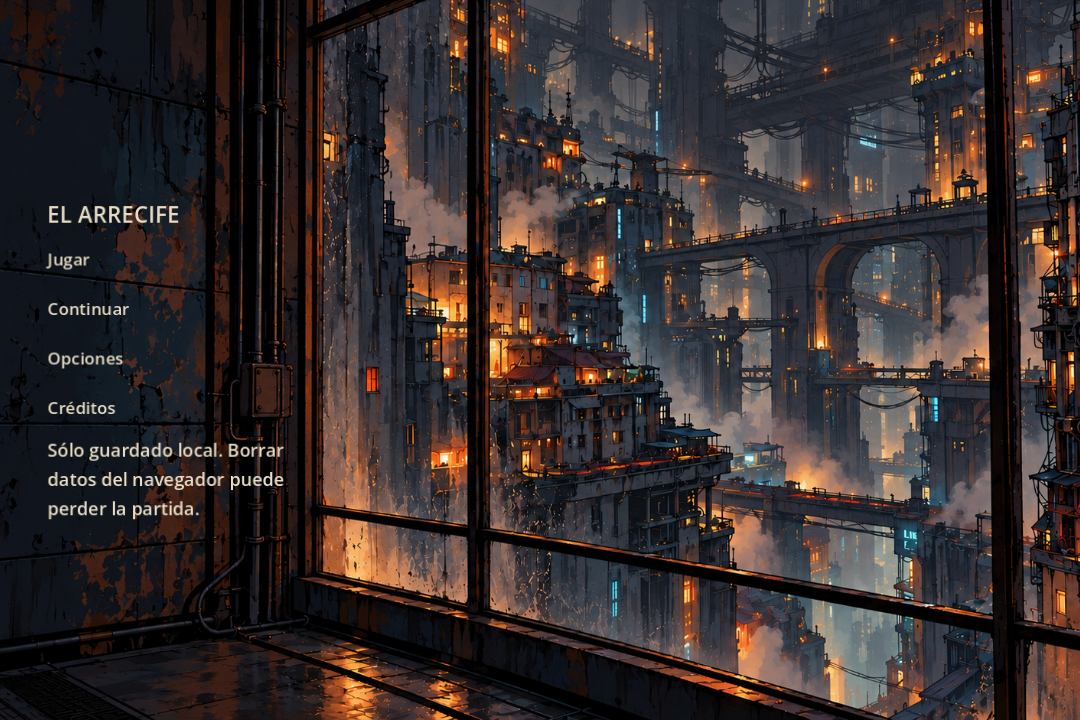
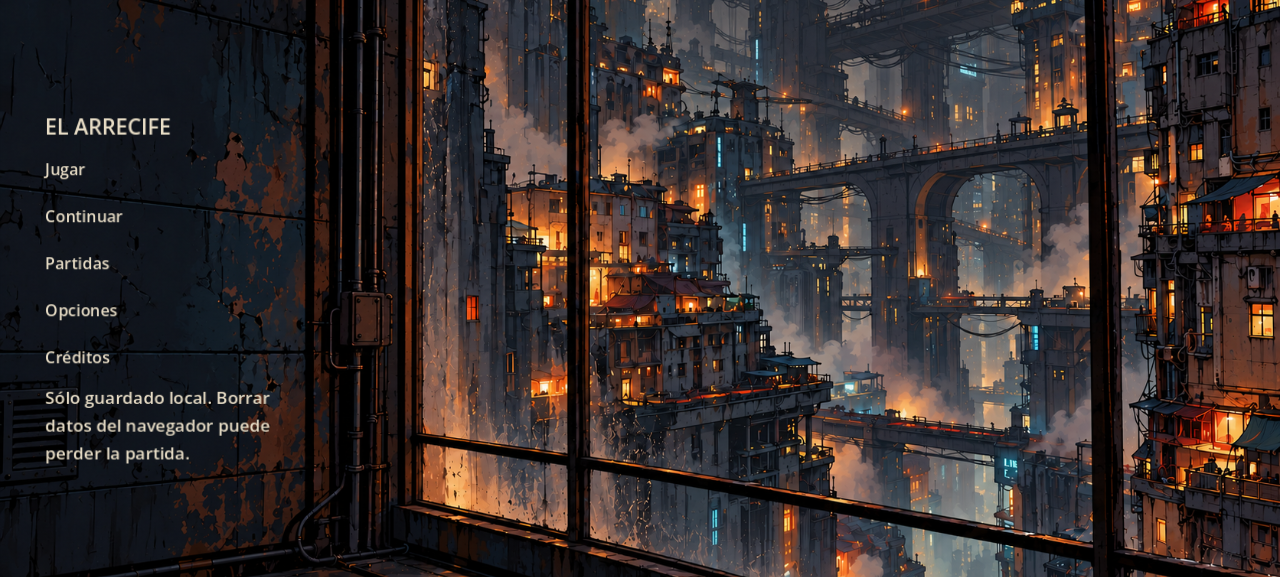
feat(save): expose local backup and restore flows

diff --git a/docs/EL_ARRECIFE_AUDITORIA_Y_PLAN_DE_MEJORA.md b/docs/EL_ARRECIFE_AUDITORIA_Y_PLAN_DE_MEJORA.md
@@ -1128,7 +1128,7 @@ No hace falta un login diferente para la página del libro y otro para el juego:
 ### Tramo 1 — Empezar con la siguiente iteración (`0.2.1`)
 
 - [ ] **`SAVE-01` · P0 · Estado y esquema de guardado.** Documentar cada campo existente de `State.data`, inmutabilidad de IDs de misión/mensaje, valor de `VERSION`, versión de contenido, validaciones y política de migración. Crear fixtures de partidas de varias edades y versiones. **Aceptación:** una partida v1 y una nueva pueden leerse de forma controlada; datos incompatibles no se borran.
-- [ ] **`SAVE-02` · P0 · Guardado local fiable.** Corregir `new_game()`/`persist()` y guardados atómicos por evento, `tmp`/`.bak`, fallos de escritura y estados de error. Diseñar exportación/importación manual de partida como segunda vía de recuperación, con aviso de información sensible y pruebas de manipulación. **Aceptación:** nunca se presenta como guardada una partida que falló; importación incorrecta no sustituye el estado sano.
+- [x] **`SAVE-02` · P0 · Guardado local fiable.** Corregir `new_game()`/`persist()` y guardados atómicos por evento, `tmp`/`.bak`, fallos de escritura y estados de error. Diseñar exportación/importación manual de partida como segunda vía de recuperación, con aviso de información sensible y pruebas de manipulación. **Aceptación:** nunca se presenta como guardada una partida que falló; importación incorrecta no sustituye el estado sano. Alcance local y comprobaciones en el registro de ejecución; cuota real y otros navegadores siguen en P0-03/P0-05.
 - [ ] **`SAVE-03` · P0 · Prueba vertical de identidad.** Elegir proveedor candidato, definir correo + código/enlace, flujo de recuperar sesión y posibilidad de empezar como invitado. Probar realmente desde Godot Web y la página bajo subruta. **Aceptación:** una persona puede salir, identificarse y volver a entrar con el mismo ID sin contraseña propia del juego.
 - [ ] **`WEB-01` · P0 · Diseño de la web y URL canónica.** Registrar `universo.israelzamora.es` como destino editorial, confirmar alojamiento y elegir slug sin choque entre página «universo» y página «juego». Montar un entorno de pruebas independiente del público. **Aceptación:** mapa de rutas aprobado y Godot carga en HTTPS desde su subdirectorio de ensayo.
 
@@ -1236,7 +1236,7 @@ Si falla cualquiera de estos puntos críticos, **no abrir el lanzamiento al púb
 
 ## Registro de ejecución · 23 oct 2026
 
-Esta actualización registra una **primera tanda local**, no cambia las decisiones pendientes de la sección 32. [Formato, límites y arquitectura](SAVE_SYSTEM_ARCHITECTURE.md) y [resultados](VALIDACION.md).
+Esta actualización registra **dos tandas locales**, sin cambiar las decisiones pendientes de la sección 32. [Formato, límites y arquitectura](SAVE_SYSTEM_ARCHITECTURE.md) y [resultados](VALIDACION.md).
 
 | Tarea | Estado comprobado | Falta para aceptación completa |
 | --- | --- | --- |
@@ -1244,9 +1244,9 @@ Esta actualización registra una **primera tanda local**, no cambia las decision
 | P0-02 | Hecha: documento y efectos en una escritura; repetición idempotente. | Ensayo de interrupción real en navegador. |
 | P0-03 | Parcial: `.bak`, `.tmp`, primario/backup corruptos y renombrado fallido en tests locales. | Cuota Web, corte real y más etapas del renombrado. |
 | P0-04 / SAVE-01 | Parcial: esquema v1 documentado, fixture v1 cargado, misiones nuevas bloqueadas, versión futura protegida. | Matriz exhaustiva de transiciones imposibles y fixtures de futuras versiones cuando existan. |
-| SAVE-02 | Parcial: API de exportación/importación validada; copia previa y rechazo de archivo alterado. | Controles de archivo para el jugador y recorrido Web de descarga/restauración. |
+| SAVE-02 | Hecha en el alcance local: controles nativos y Web, confirmación, copia previa recuperable desde el juego, archivo alterado rechazado, descarga y restauración tras borrar IndexedDB probadas. | Pruebas de cuota real Web y otros navegadores/dispositivos corresponden a P0-03/P0-05. |
 | SAVE-03 | Diseño técnico candidato, sin identidad configurada. | Prototipo real de correo/sesión bajo HTTPS y subruta. |
 | SAVE-04 / SAVE-05 | Modelo de revisiones, offline y conflicto probado con mock; sin backend. | Auth, RLS y repositorio reales, cola durable, historial, pruebas con dos cuentas y dispositivos. |
-| WEB-01 | Parcial: exportación Godot 4.7.2 servida localmente en `/ensayo-021/`; rutas relativas y MIME básicos comprobados. | Slug aprobado, staging HTTPS y configuración real de Ginernet. |
+| WEB-01 | Parcial: exportación Godot 4.7.2 servida y ejecutada en Chromium desde `/ensayo-022/`; rutas relativas, MIME, archivo y recuperación local comprobados. | Slug aprobado, staging HTTPS y configuración real de Ginernet. |
 
-**Ejecución:** baseline 827/827 headless y 899/899 nativas; después 73/73 de integridad, 7/7 de sincronización simulada, 827/827 headless, 899/899 nativas y preservación correcta. La revisión de código añadió la preservación del único `.tmp` válido y el aislamiento de identidad del modelo. El aislamiento del mock no equivale a autorización RLS. Nada se ha desplegado ni vinculado a una cuenta.
+**Ejecución:** primera tanda: baseline 827/827 headless y 899/899 nativas; después 73/73 de integridad, 7/7 de sincronización simulada, 827/827 headless, 899/899 nativas y preservación correcta. Segunda tanda: nueva prueba de interfaz 13/13 headless y 16/16 nativa, suite principal 827/827 headless y 899/899 nativa; recorrido Web de exportación, archivo incompatible, perfil nuevo, restauración tras borrar IndexedDB y recuperación de una copia local anterior. La revisión inicial añadió la preservación del único `.tmp` válido y el aislamiento de identidad del modelo; la segunda detectó y permitió cerrar la falta de acceso a `.previa-*` desde Web. El aislamiento del mock no equivale a autorización RLS. Nada se ha desplegado ni vinculado a una cuenta.

diff --git a/docs/VALIDACION.md b/docs/VALIDACION.md
@@ -4,11 +4,15 @@ Actualizado el 23 de octubre de 2026. Godot 4.7.2 oficial, Mac mini M4, Compatib
 
 ## Guardado y subruta Web · 23 oct 2026
 
+**Segunda tanda, controles de archivo:** `tests/save_file_ui.gd` pasó **13/13 headless** y **16/16 nativas con GPU** después de añadir la recuperación de copias locales. Comprueba exportación a archivo nuevo, rechazo de sobrescritura, archivo inválido, espera de confirmación, cancelación, persistencia tras importar y deshacer una importación mediante respaldo interno. Tras el último ajuste, el recorrido principal pasó **827/827 headless** y **899/899 nativas**, integridad **73/73**, sincronización simulada **7/7**, preservación e importación Godot. Se inspeccionó el [panel a 1280×720](evidence/partidas_1280x720.png) y [844×390](evidence/partidas_844x390.png); el aviso de privacidad queda visible sin desplazar en horizontal móvil. La suite principal headless emitió ocasionalmente avisos de objetos/recursos al salir, con código 0; no son fallos de aserción.
+
+En Chromium, Godot se ejecutó desde `http://127.0.0.1:8765/ensayo-022/`. Se inició una partida, se descargó un JSON real (278 bytes; versión 1, tres contratos), se importó con confirmación y se volvió a «Continuar». Un perfil nuevo abrió sin partida, rechazó `{"version":999}` sin activar «Continuar» e importó la copia válida. En el perfil original se navegó fuera del juego, se borró IndexedDB `/userfs`, se recargó el juego (sin «Continuar») y se restauró el mismo archivo; «Continuar» recuperó el dormitorio. Después se viajó al salón/cocina, se comenzó otra partida y **Copias anteriores** recuperó la partida desde la cocina con confirmación. La [captura Web de copias anteriores](evidence/copias_anteriores_1280x720.png) muestra las ubicaciones y fechas de ambos respaldos. `agent-browser errors` no mostró errores de página en estos recorridos. Son pruebas locales HTTP y Chromium: **no** comprueban HTTPS/cPanel, cuota de almacenamiento, Safari, teléfonos físicos, sincronización cloud ni que una descarga futura no sea bloqueada por otro navegador. El selector nativo de archivos de macOS está configurado, pero no se abrió manualmente en esta tanda; su escritura y lectura se ejercitaron por pruebas de integración con rutas temporales.
+
 Antes de modificar el código: importación correcta; **827/827** comprobaciones headless, **899/899** nativas con GPU y preservación correcta. Después: `tests/save_integrity.gd` **73/73**; `tests/save_sync.gd` **7/7** con repositorio simulado; suite principal **827/827** headless y **899/899** nativas; `preservation.py` correcto. Se forzaron fallo de escritura, reinicio fallido, documento con varios efectos, aceptación y trayecto fallidos, primario/backup corruptos (JSON roto e incompleto), recuperación desde único temporal seguida de guardado/reinicio/importación, temporal enorme junto a primario sano, versión futura incluso en `.tmp`, renombrado/promoción fallidos, misión desconocida e importación inválida. La migración cargó el fixture v1 anterior a las misiones 2 y 3. La suite principal recorre los tres contratos y ambos desenlaces; conserva mensajes y decisiones tras recarga.
 
 La exportación Web final se generó con Godot 4.7.2 en una carpeta limpia `game/build/staging/ensayo-021/`. `index.html`, `.js`, `.pck`, `.wasm` y `.png` respondieron **HTTP 200** desde `/ensayo-021/` en servidor local; el tipo de `.wasm` fue `application/wasm`. La exportación usa rutas relativas y el PCK ya no empaqueta `build/` ni `tests/`. Se inspeccionó el aviso de partida local en la [captura nativa actualizada del menú](evidence/01_menu.png): es legible y cabe en la columna.
 
-**No ejecutado:** sesión de navegador en esta nueva exportación, cuota Web agotada, interrupción física, importación manual mediante UI, cuenta real, RLS, dos usuarios reales, sincronización entre dispositivos, HTTPS/cPanel en el dominio del autor y publicación FTP. El mock separa identificadores, pero **no demuestra aislamiento del servidor**. La aplicación no tiene nube activa. [Arquitectura](SAVE_SYSTEM_ARCHITECTURE.md).
+**Pendiente de la primera tanda y aún no ejecutado:** cuota Web agotada, interrupción física, cuenta real, RLS, dos usuarios reales, sincronización cloud entre dispositivos, HTTPS/cPanel en el dominio del autor y publicación FTP. La sesión de navegador y la importación manual mediante UI sí se ejecutaron en la segunda tanda descrita arriba. El mock separa identificadores, pero **no demuestra aislamiento del servidor**. La aplicación no tiene nube activa. [Arquitectura](SAVE_SYSTEM_ARCHITECTURE.md).
 
 ## Versión 0.2.0 · primera prueba · 22 oct 2026
 

diff --git a/docs/SAVE_SYSTEM_ARCHITECTURE.md b/docs/SAVE_SYSTEM_ARCHITECTURE.md
@@ -19,9 +19,11 @@ El contenido actual se identifica por los JSON de `game/data/`. La versión de c
 
 ## Operación local
 
-Cada acción lógica de juego se escribe una vez. `State.apply()` agrupa efectos, elección y lectura de documento; aceptar contrato y navegar también restauran la memoria si falla el guardado. `new_game()` conserva una copia `.previa-*` de la partida válida antes de reemplazarla. `import_save()` valida el JSON, crea copia de la partida anterior y sólo confirma tras una escritura válida. `export_save()` entrega el JSON de un archivo local verificado, no una mutación de memoria todavía sin guardar. Estos dos métodos están probados como API; **todavía no tienen botones de descarga/subida para el jugador**.
+Cada acción lógica de juego se escribe una vez. `State.apply()` agrupa efectos, elección y lectura de documento; aceptar contrato y navegar también restauran la memoria si falla el guardado. `new_game()` conserva una copia `.previa-*` de la partida válida antes de reemplazarla. `import_save()` valida el JSON, crea copia de la partida anterior y sólo confirma tras una escritura válida. `export_save()` entrega el JSON de un archivo local verificado, no una mutación de memoria todavía sin guardar. Ambos métodos tienen controles de archivo en el menú.
 
 `save_game()` escribe `.tmp`, comprueba escritura y lectura, mueve el primario a `.bak` y promueve el temporal. `load_game()` intenta primario, backup y temporal válido, en ese orden. Si `.tmp` es la **única copia válida**, se copia a `.bak` antes de abrirlo para la siguiente escritura; reiniciar o importar también la archiva. Un temporal ilegible no bloquea un primario válido, pero uno de versión futura sí queda protegido. La copia anterior no se limpia automáticamente. La UI sólo anuncia éxito al confirmar la operación; ante fallo presenta el error. El menú indica que una partida invitada está sólo en este dispositivo. Una caída de alimentación, un fallo de disco o una cuota de navegador pueden exceder las garantías de esta estrategia; falta la matriz real de Web y dispositivos.
+
+El menú **Partidas** expone ya los dos métodos. En escritorio, Godot abre un selector nativo y escribe la exportación a un archivo nuevo tras verificar el temporal; no sobrescribe una copia existente. En Web, `JavaScriptBridge.download_buffer()` solicita la descarga desde el gesto del usuario y muestra un estado honesto: el jugador debe comprobar que el navegador la completó. Para importar, el navegador usa un selector temporal de archivos y lee como máximo 1 MiB; en escritorio se usa `FileDialog`. La UI vuelve a validar el JSON y su versión, muestra el nombre de la copia y exige pulsar **Sustituir partida**. `State.import_save()` hace la validación final, archiva el guardado anterior y sólo confirma después de persistir. **Copias anteriores** enumera los archivos `.previa-*` válidos del dispositivo y los restaura mediante la misma confirmación; siguen dependiendo del almacenamiento local del navegador. Un archivo externo puede contener decisiones personales y se advierte que se conserve en privado. Se probó en Chromium bajo `/ensayo-022/`: descarga real, archivo incompatible rechazado, restauración en perfil limpio y tras borrar IndexedDB `/userfs`, con «Continuar» recuperado. También se recuperó desde la UI un respaldo interno del salón/cocina después de comenzar otra partida. Esto sigue siendo recuperación **manual**, no una copia cloud automática.
 
 ## Límite local/nube
 

diff --git a/README.md b/README.md
@@ -49,6 +49,8 @@ Todo se juega con clic o toque. **En móvil se juega sólo en horizontal**: el a
 
 El logo original de **EL ARRECIFE PRODUCTS**, suministrado por el autor, abre el juego. En Web, la secuencia de apertura se muestra una vez por pestaña: **recargar lleva directamente al menú** y abrir el juego en una pestaña nueva vuelve a mostrarla. El aviso de orientación sigue activo incluso cuando se omite la apertura.
 
+**Menú → Partidas** permite exportar un archivo JSON de la partida guardada e importar una copia. La importación comprueba el archivo y pide confirmación antes de sustituir el progreso activo; **Copias anteriores** permite recuperar los respaldos locales creados al reiniciar o importar. En Web, revisa que el navegador haya descargado el archivo antes de borrar datos del sitio: borrar esos datos elimina también las copias locales anteriores. El JSON contiene decisiones de la historia; guárdalo en privado. [Panel de partidas](docs/evidence/partidas_1280x720.png).
+
 Mientras la exportación Web descarga el motor aparece un fondo neutro; el logo sólo se muestra dentro de la secuencia de apertura.
 
 ### Recorrido de comprobación
@@ -66,7 +68,7 @@ python3 -m http.server 8767 --bind 127.0.0.1 --directory game/build/web
 
 Abre `http://127.0.0.1:8767`. El directorio `build/` es regenerable y está excluido de Git. No abras el HTML con `file://`. La exportación Web usa Compatibility, sin hilos ni extensiones.
 
-El guardado usa `user://partida.json`, `.tmp` y `.bak`; una partida nueva conserva además una copia `.previa-*`. El menú avisa de que el progreso del invitado está sólo en el dispositivo. En navegador, borrar los datos del sitio, cambiar de origen o usar modo privado puede hacer perder el acceso. **No hay guardado en la nube ni cuentas activas.** La base de migración, exportación/importación por API y sincronización simulada se explica en [Protección del progreso](docs/SAVE_SYSTEM_ARCHITECTURE.md); todavía faltan los controles de archivo para el jugador.
+El guardado usa `user://partida.json`, `.tmp` y `.bak`; una partida nueva conserva además una copia `.previa-*`. El menú avisa de que el progreso del invitado está sólo en el dispositivo. En navegador, borrar los datos del sitio, cambiar de origen o usar modo privado puede hacer perder el acceso; el archivo exportado permite restaurarlo manualmente. **No hay guardado en la nube ni cuentas activas.** La base de migración y la sincronización simulada se explican en [Protección del progreso](docs/SAVE_SYSTEM_ARCHITECTURE.md).
 
 ### Ensayo de Web en una subruta
 
@@ -90,6 +92,7 @@ godot --headless --path game --editor --import --quit
 godot --headless --path game --script tests/run.gd
 godot --path game --script tests/run.gd
 godot --headless --path game --script tests/save_integrity.gd
+godot --headless --path game --script tests/save_file_ui.gd
 godot --headless --path game --script tests/save_sync.gd
 python3 game/tests/preservation.py
 ```

diff --git a/docs/GAME_DESIGN.md b/docs/GAME_DESIGN.md
@@ -69,7 +69,7 @@ En conversaciones, Sota izquierda e interlocutora derecha, mirando al centro con
 
 `main.gd`: menú, intro, exploración y apertura de paneles. `startup.gd`: tres pantallas previas y aviso reutilizado al girar el móvil. `viewpoint.gd`: imagen e indicadores. `dialogue.gd`: secuencia de nodos y opciones. `device.gd`: secciones del deck. `ui.gd`: controles y tema compartidos. Una escena raíz; las vistas son datos y usan el mismo componente. Sin dependencias externas ni frameworks.
 
-Guardado v1: vista/zona, misiones, flags, descubrimientos, documentos, mensajes, lugares y elecciones. Las acciones de juego se confirman sólo después de guardar; la lectura de un documento y sus efectos forman una sola transición. Se comprueba escritura temporal, se conserva copia anterior y se puede recuperar `.bak` o `.tmp` válido. Una partida anterior con sólo `retorno_agua` incorpora las dos misiones nuevas como bloqueadas al cargar, sin perder progreso. Los archivos incompatibles no se sobrescriben. Hay API probada de exportación/importación manual, aún sin controles de archivo en el menú. Opciones en archivo separado. No hay migración desde los prototipos retirados. [Detalles y límites](SAVE_SYSTEM_ARCHITECTURE.md).
+Guardado v1: vista/zona, misiones, flags, descubrimientos, documentos, mensajes, lugares y elecciones. Las acciones de juego se confirman sólo después de guardar; la lectura de un documento y sus efectos forman una sola transición. Se comprueba escritura temporal, se conserva copia anterior y se puede recuperar `.bak` o `.tmp` válido. Una partida anterior con sólo `retorno_agua` incorpora las dos misiones nuevas como bloqueadas al cargar, sin perder progreso. Los archivos incompatibles no se sobrescriben. El menú «Partidas» permite exportar e importar JSON con confirmación y recuperar las copias locales `.previa-*`. En Web, la descarga debe verificarse fuera del juego y borrar los datos del sitio elimina también esas copias internas. Opciones en archivo separado. No hay migración desde los prototipos retirados. [Detalles y límites](SAVE_SYSTEM_ARCHITECTURE.md).
 
 ## Estado de 0.2.0
 

diff --git a/proceso/ESTADO_DEL_PROYECTO.md b/proceso/ESTADO_DEL_PROYECTO.md
@@ -4,6 +4,8 @@ Actualizado: **23 de octubre de 2026**.
 
 ## Tanda de protección del progreso · 23 oct 2026
 
+**Segunda tanda comprobada:** el menú **Partidas** permite exportar e importar archivos JSON en escritorio y Web. La importación exige confirmación y conserva una copia local anterior accesible desde **Copias anteriores**. Se probó en Chromium bajo `/ensayo-022/`: descarga, archivo inválido, perfil vacío, borrado de IndexedDB, restauración desde archivo y recuperación de un respaldo interno del salón/cocina. Las pruebas nuevas de interfaz pasaron 13/13 headless y 16/16 nativas; el recorrido principal pasó 827/827 headless y 899/899 nativas, además de integridad, mock de sincronización, importación, exportación Web y preservación. La nube sigue sin estar configurada y el hosting real no se ha tocado. [Resultados](../docs/VALIDACION.md).
+
 **Rama de trabajo:** `feat/save-integrity-021`, desde `main`; sin despliegue ni push a `main`. El usuario pidió comenzar la [hoja de mejoras](../docs/EL_ARRECIFE_AUDITORIA_Y_PLAN_DE_MEJORA.md) por P0 y preparar una futura nube opcional. La dirección jugable 2D y el contenido existente se mantienen.
 
 **Implementado:** resultado explícito del guardado, rollback de memoria, acciones de documento/elección en una escritura, recuperación de `.tmp`, protección de archivos de versión incompatible, migración v1 probada y API local de exportación/importación con copia previa. Menú con aviso de partida invitada local. `save_sync.gd` es sólo un modelo de estados y revisiones con mock; no está conectado al juego ni a un servicio real. Web se exportó a `/ensayo/` local con rutas relativas. [Diseño técnico](../docs/SAVE_SYSTEM_ARCHITECTURE.md).

diff --git a/task.md b/task.md
@@ -89,7 +89,8 @@ Dirección del autor, 20 oct 2026: aventura **2D ilustrada en primera persona**,
 - [x] P0-01: nueva partida y mutaciones informan fallos; conservar memoria y archivo válido en fallos simulados.
 - [x] P0-02: documento, efectos y elecciones se confirman por acción lógica única; pruebas de repetición y fallo.
 - [ ] P0-03/P0-04: completar matriz real de cuota/renombres Web y validación de transiciones imposibles. Recuperación local y fixture v1 ya probados.
-- [ ] SAVE-01/SAVE-02: completar controles de archivo para exportar/importar y pruebas Web reales. Esquema v1, migración y API local documentados y probados.
+- [ ] SAVE-01: completar matriz de validación y migración futura. Esquema v1, fixture, migración de contenido y versión futura protegida.
+- [x] SAVE-02: exportación/importación por menú nativo y Web, aviso de privacidad, confirmación, respaldo recuperable desde «Copias anteriores» y prueba Chromium de descarga, archivo inválido, perfil nuevo y restauración tras borrar IndexedDB.
 - [ ] SAVE-03/SAVE-04/SAVE-05: configurar entorno de ensayo, identidad verificable, RLS, repositorio remoto, cola persistente y conflictos en dos clientes. Modelo local con mock probado; **no hay nube real**.
 - [ ] WEB-01: aprobar slug y comprobar carga HTTPS en subruta del hosting. Exportación en `/ensayo/` servida localmente y empaquetado limpio probados.
 - [ ] SAVE-06–09 y WEB-02–04: integración multidispositivo, seguridad, restauración y publicación; pendientes.
